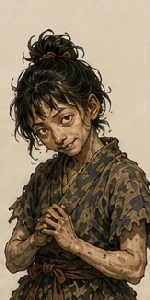
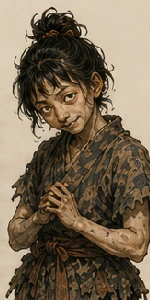
Update background images and add blur backdrop
- Update kane_madman.webp, topBG.webp, nontitleBG.webp
- Add nontitleBGblur.webp as backdrop layer (covers full screen)
- Use cover sizing to fit any aspect ratio

diff --git a/src/css/veil.css b/src/css/veil.css
@@ -1,6 +1,8 @@
 .veil{position:fixed;top:0;left:0;right:0;bottom:0;width:100vw;height:100vh;background:#0A0D13;z-index:9999;display:flex;align-items:center;justify-content:center;text-align:center;padding:24px;overflow:auto}
-.veil.title-screen{background:#D9CFB9 url('../assets/BG/topBG.webp') center top/auto 100% no-repeat;align-items:flex-start;padding-top:55vh}
-.veil.menu-screen{background:#D9CFB9 url('../assets/BG/nontitleBG.webp') center center/auto 100% no-repeat}
+.veil.title-screen{background:url('../assets/BG/topBG.webp') center top/auto 100% no-repeat;align-items:flex-start;padding-top:55vh}
+.veil.menu-screen{background:url('../assets/BG/nontitleBG.webp') center center/auto 100% no-repeat}
+/* 背面のぼかし背景（画面にフィット） */
+.veil.title-screen::before,.veil.menu-screen::before{content:'';position:absolute;top:0;left:0;right:0;bottom:0;background:url('../assets/BG/nontitleBGblur.webp') center center/cover no-repeat;z-index:-1}
 /* ルーム作成・参加画面は背景なし */
 .veil.menu-screen:has(.room-created),.veil.menu-screen:has(.join-room){background:#0A0D13}
 .veil.menu-screen:has(.room-created) .title-sm,.veil.menu-screen:has(.join-room) .title-sm{color:var(--kinari)}
